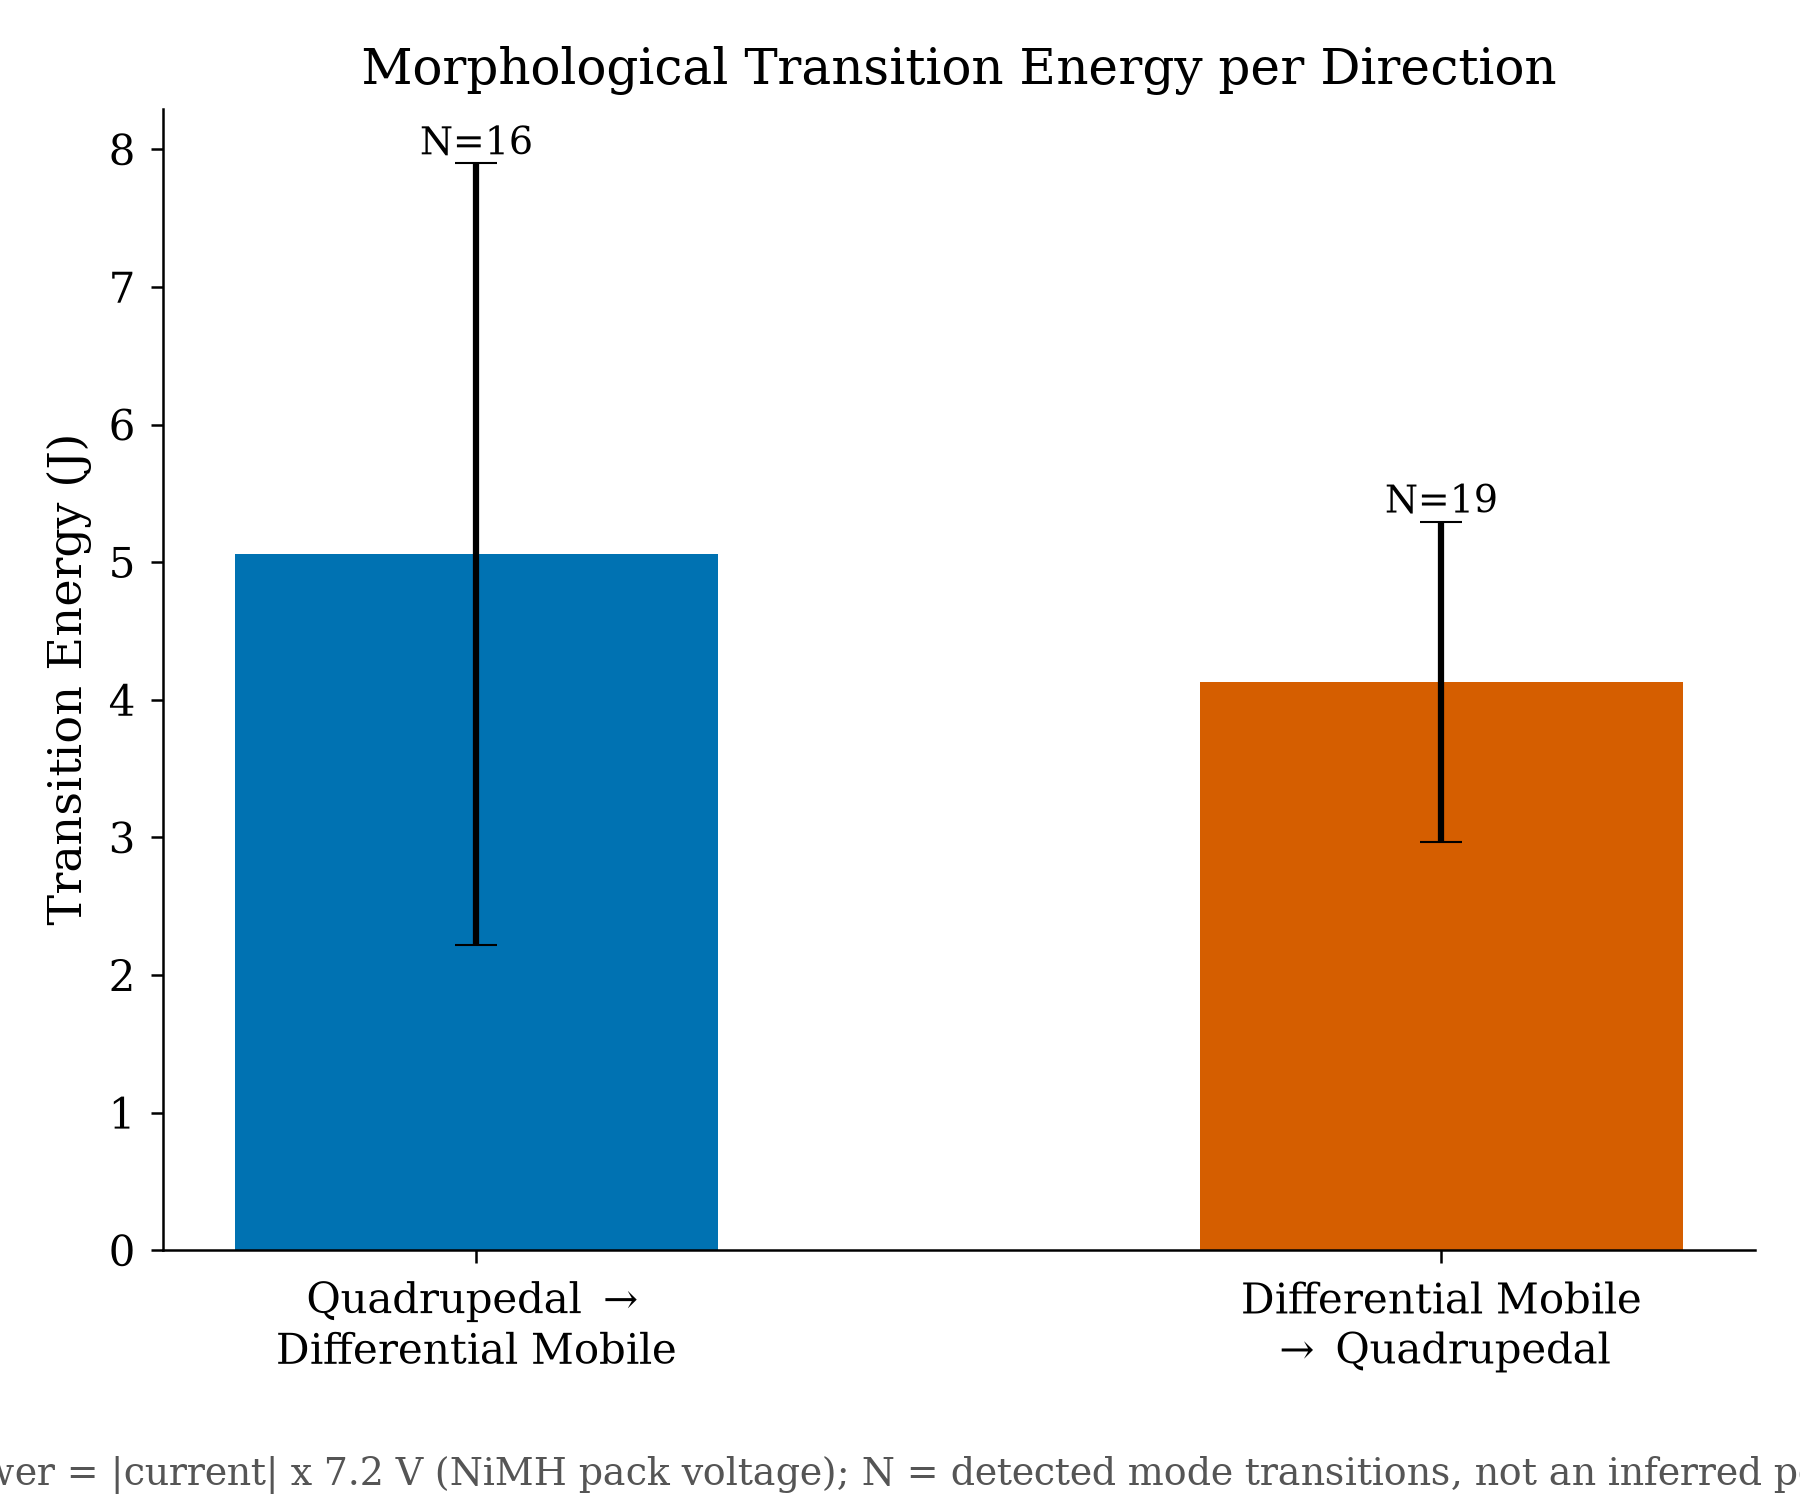
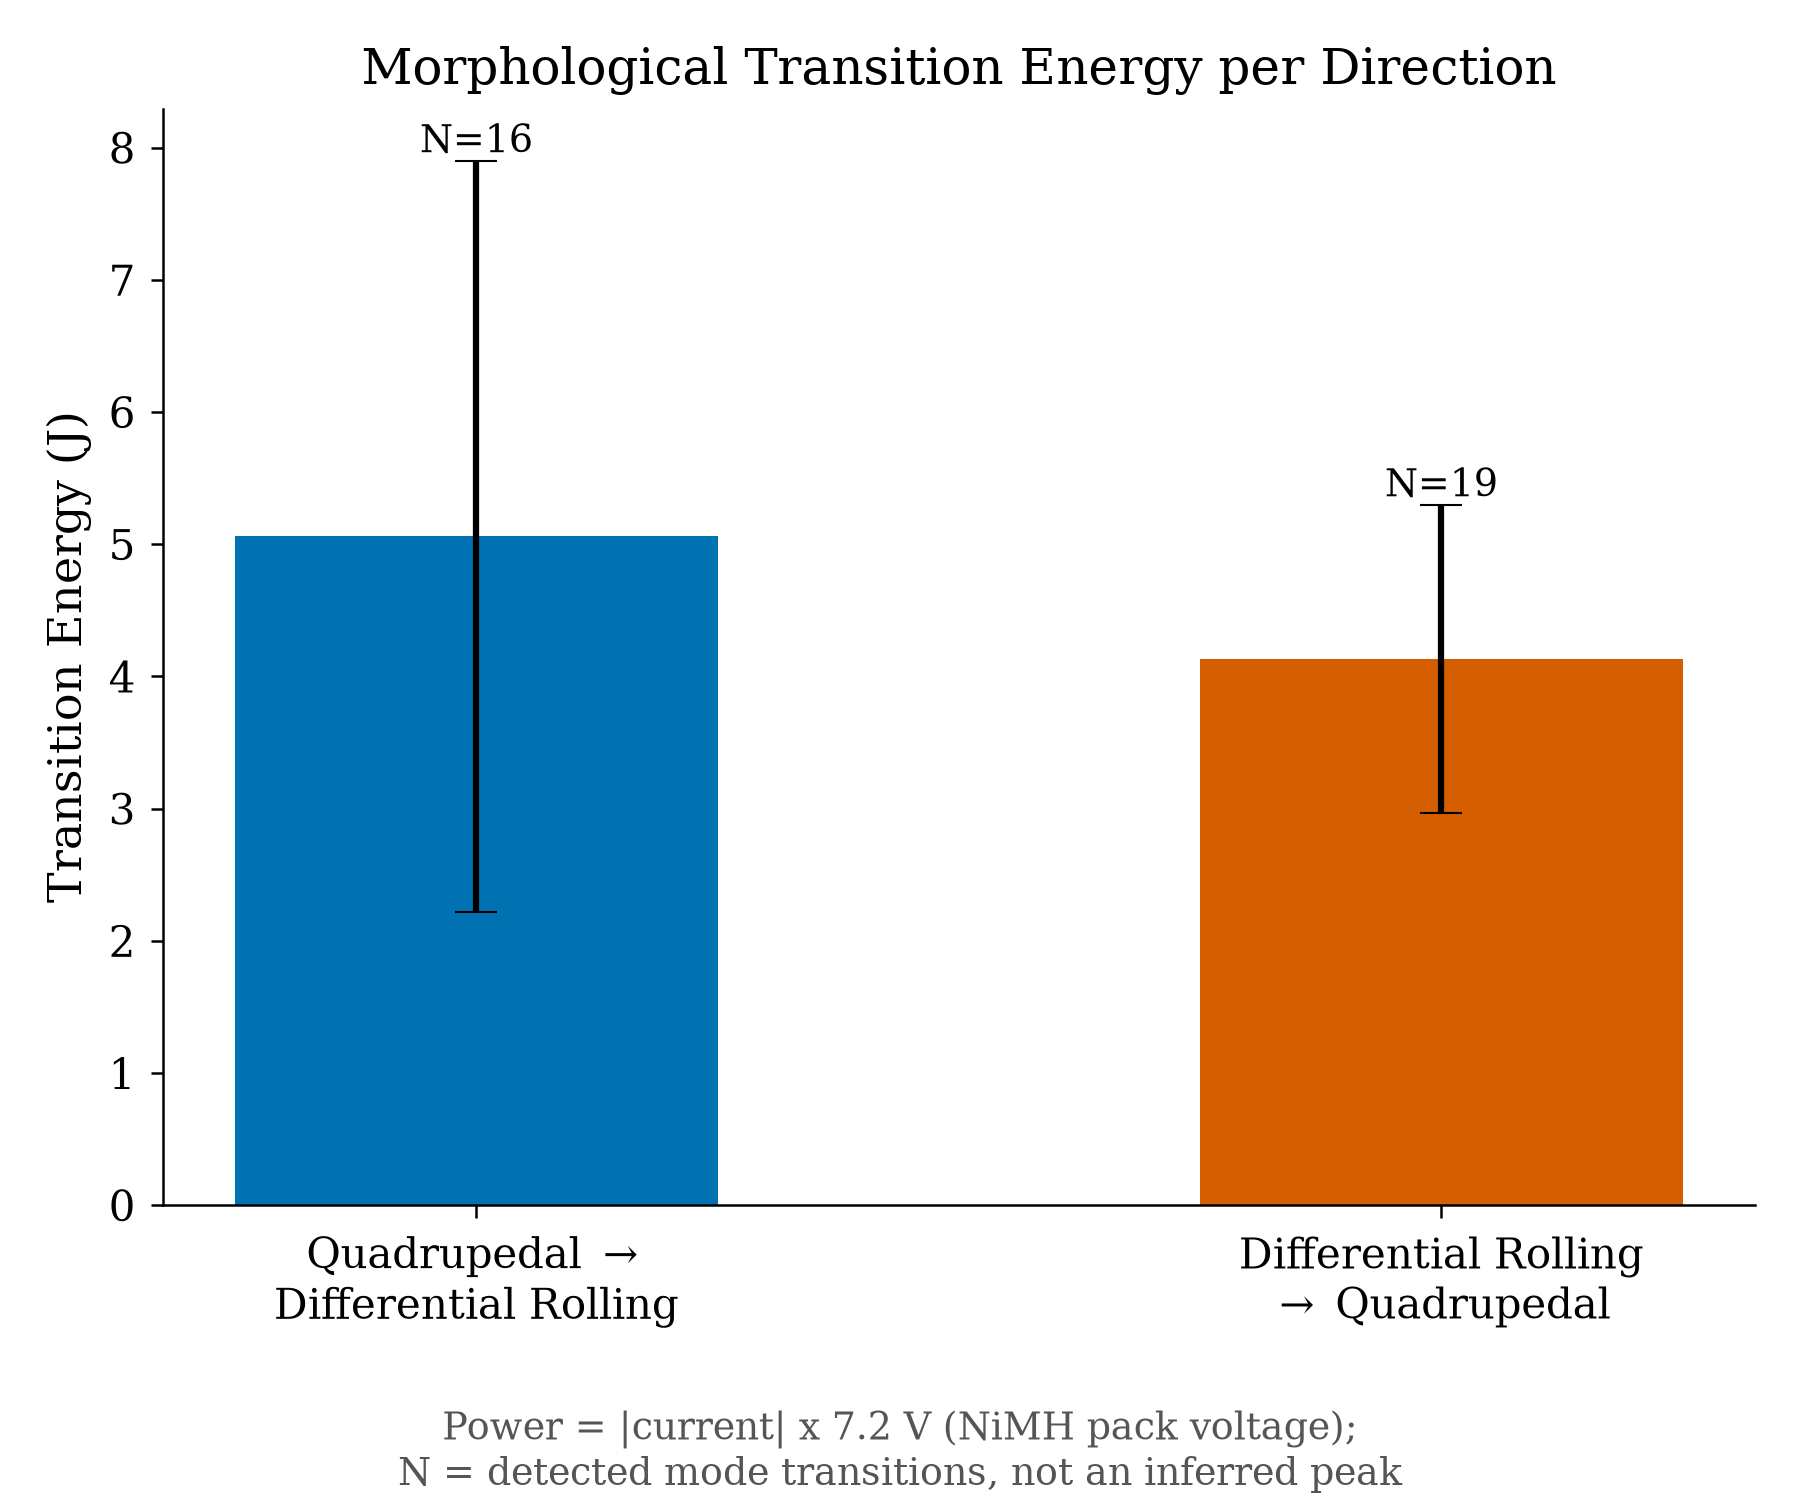
patch: C-89 regenerate the two physical figures with 'Differential Rolling' and a complete footnote
FigReal_Morphological_Transition_Energy: labels + two-line footnote (was cut at both edges).
FigReal_Terrain_Latencies_4Panels: panel titles. Values unchanged. No sections/ text change.

diff --git a/experiments/_plotting/builders/energy_transition.py b/experiments/_plotting/builders/energy_transition.py
@@ -47,8 +47,8 @@ TEST_DIRS = [
 # command -> (mode name, window duration in seconds) -- durations match
 # FigReal_Terrain_Latencies_4Panels's published panels C/D exactly (author-supplied).
 WINDOW_S = {"z": 2.92, "c": 1.56}  # 'x' excluded: N=1, no calibrated window supplied
-DIRECTION_LABEL = {("c", "z"): "Quadrupedal -> Differential Mobile",
-                    ("z", "c"): "Differential Mobile -> Quadrupedal"}
+DIRECTION_LABEL = {("c", "z"): "Quadrupedal -> Differential Rolling",
+                    ("z", "c"): "Differential Rolling -> Quadrupedal"}
 
 
 def find_transitions(real_root: str) -> list[dict]:
@@ -97,12 +97,12 @@ def build(real_root: str, output_path: str) -> dict:
     for e in events:
         e["energy_J_uncalibrated"] = integrate_energy(real_root, e)
 
-    by_direction = {"Quadrupedal -> Differential Mobile": [], "Differential Mobile -> Quadrupedal": []}
+    by_direction = {"Quadrupedal -> Differential Rolling": [], "Differential Rolling -> Quadrupedal": []}
     for e in events:
         if e["direction"] in by_direction and not np.isnan(e["energy_J_uncalibrated"]):
             by_direction[e["direction"]].append(e["energy_J_uncalibrated"])
 
-    labels = ["Quadrupedal $\\to$\nDifferential Mobile", "Differential Mobile\n$\\to$ Quadrupedal"]
+    labels = ["Quadrupedal $\\to$\nDifferential Rolling", "Differential Rolling\n$\\to$ Quadrupedal"]
     means = [np.mean(v) for v in by_direction.values()]
     sds = [np.std(v) for v in by_direction.values()]
     ns = [len(v) for v in by_direction.values()]
@@ -117,9 +117,12 @@ def build(real_root: str, output_path: str) -> dict:
     ax.set_title("Morphological Transition Energy per Direction")
     # R3b-04 batch 3: this footnote named our own log columns ("current_A", "robot_cmd"), which
     # mean nothing to a reader. Same wording in reader-facing terms; 7 pt raised to 9.
-    fig.text(0.5, 0.01, "Power = |current| x 7.2 V (NiMH pack voltage); N = detected mode"
-              " transitions, not an inferred peak", ha="center", fontsize=9, color="#555555")
-    fig.tight_layout(rect=(0, 0.05, 1, 1))
+    # C-89: the one-line footnote was wider than the 6 in figure and got cut at both edges; two
+    # lines, same wording, room reserved at the bottom.
+    fig.text(0.5, 0.01, "Power = |current| x 7.2 V (NiMH pack voltage);\n"
+              "N = detected mode transitions, not an inferred peak",
+              ha="center", fontsize=9, color="#555555")
+    fig.tight_layout(rect=(0, 0.08, 1, 1))
     os.makedirs(os.path.dirname(output_path), exist_ok=True)
     fig.savefig(output_path, dpi=DPI)
     plt.close(fig)

diff --git a/patches/c-89-figure-label-rolling.tex b/patches/c-89-figure-label-rolling.tex
@@ -1,0 +1,19 @@
+% Patch record for C-89 -- final round-2 corrections, figures. Applied 2026-11-04. 2 assets replaced
+% under their existing names; no sections/*.tex text changed.
+%
+% energy_transition.py -> FigReal_Morphological_Transition_Energy.png
+% - x labels "Differential Mobile" -> "Differential Rolling": the manuscript text and tables always say
+%   "Differential Rolling" (audit S-34 = M-20).
+% - The one-line footnote was wider than the 6 in figure and was cut at both edges ("wer = |current| ...
+%   not an inferred pe"). Same wording, now two lines; bottom margin rect 0.05 -> 0.08.
+% - Values unchanged: 35 transitions, Q->DR N=16 mean 5.059 J, DR->Q N=19 mean 4.132 J; error bars are
+%   still the population SD already declared by C-74 (not reopened).
+%
+% imu_terrain_real.py (build_terrain_latencies) -> FigReal_Terrain_Latencies_4Panels.png
+% - The four panel titles "[... Differential Mobile ...]" -> "Differential Rolling". Data unchanged
+%   (experiments/_plotting/vectorized/terrain_latencies.csv).
+% - NOT touched on purpose (author decision 2026-11-03): the "Hardware Replicates (reconstructed)" legend
+%   and the number of steps per panel; the origin of the 184/534 ms latencies is parked as a known risk.
+%
+% Not regenerated: classifier panel (a) (text aligned to the figure instead), optional low-priority
+% items (ECDF title em dash, inspection timeline axis, decision-delay axis).

diff --git a/experiments/_plotting/builders/imu_terrain_real.py b/experiments/_plotting/builders/imu_terrain_real.py
@@ -144,13 +144,13 @@ def build_terrain_latencies(csv_path: str, output_path: str) -> None:
     df = pd.read_csv(csv_path)
     panel_specs = [
         ("A_Tresponse_Quad2Diff", "#1f77b4", "A. Neural Processing Latency ($T_{response}$)\n"
-         "[Quadrupedal $\\to$ Differential Mobile]", "Time Delay (s)"),
+         "[Quadrupedal $\\to$ Differential Rolling]", "Time Delay (s)"),
         ("B_Tresponse_Diff2Quad", "#ff7f0e", "B. Neural Processing Latency ($T_{response}$)\n"
-         "[Differential Mobile $\\to$ Quadrupedal]", "Time Delay (s)"),
+         "[Differential Rolling $\\to$ Quadrupedal]", "Time Delay (s)"),
         ("C_Tswitch_Quad2Diff", "#2ca089", "C. Electromechanical Coupling Latency ($T_{switch}$)\n"
-         "[Quadrupedal $\\to$ Differential Mobile]", "Settling Time (s)"),
+         "[Quadrupedal $\\to$ Differential Rolling]", "Settling Time (s)"),
         ("D_Tswitch_Diff2Quad", "#d2691e", "D. Electromechanical Coupling Latency ($T_{switch}$)\n"
-         "[Differential Mobile $\\to$ Quadrupedal]", "Settling Time (s)"),
+         "[Differential Rolling $\\to$ Quadrupedal]", "Settling Time (s)"),
     ]
     fig, axes = plt.subplots(2, 2, figsize=(11, 8.5))
     for ax, (panel, color, title, xlabel) in zip(axes.flat, panel_specs):

diff --git a/PROGRESS.md b/PROGRESS.md
@@ -143,4 +143,4 @@ Resolved by renumbering the second-arriving set (Sebas's) to the next free IDs a
 | C-86 | — | **Correcciones finales de la ronda 2 — `sections/results.tex` líneas 324–581 (estabilidad de transiciones, FSM baseline, inspección).** Brief autocontenido: `intake/pending/final_corrections_round2_2026-11-04.md` (reglas, decisiones del autor, qué aplicar y qué no). Cualquiera de Sam, Sebas o Diego puede tomarla: antes de empezar mira `gh pr list --state open` para que no la tome dos veces. Solo este archivo/rango. Due 2026-11-04. | results.tex (324–581) | — | Escritura | Sam, Sebas, Diego | pending | — |
 | C-87 | — | **Correcciones finales de la ronda 2 — `sections/results.tex` líneas 582–867 (resultados físicos, MLP, topografías físicas).** Brief autocontenido: `intake/pending/final_corrections_round2_2026-11-04.md` (reglas, decisiones del autor, qué aplicar y qué no). Cualquiera de Sam, Sebas o Diego puede tomarla: antes de empezar mira `gh pr list --state open` para que no la tome dos veces. Solo este archivo/rango. Due 2026-11-04. | results.tex (582–867) | — | Escritura | Sam, Sebas, Diego | pending | — |
 | C-88 | — | **Correcciones finales de la ronda 2 — `sections/results.tex` líneas 868–1055 (desempeño físico cuantitativo, energía, Limitations).** Brief autocontenido: `intake/pending/final_corrections_round2_2026-11-04.md` (reglas, decisiones del autor, qué aplicar y qué no). Cualquiera de Sam, Sebas o Diego puede tomarla: antes de empezar mira `gh pr list --state open` para que no la tome dos veces. Solo este archivo/rango. Due 2026-11-04. | results.tex (868–1055) | — | Escritura | Sam, Sebas, Diego | pending | — |
-| C-89 | — | **Correcciones finales de la ronda 2 — figuras.** Regenerar `FigReal_Terrain_Latencies_4Panels.png` y `FigReal_Morphological_Transition_Energy.png` (etiquetas "Differential Mobile" → "Differential Rolling"; pie cortado en la de energía) por `experiments/` + `scripts/promote_figure.sh`. Brief autocontenido: `intake/pending/final_corrections_round2_2026-11-04.md`. Cualquiera de Sam, Sebas o Diego puede tomarla (mira `gh pr list --state open` antes). Due 2026-11-04. | assets/ (2 figuras) | experiments/_plotting/ | Métricas | Sam, Sebas, Diego | pending | — |
+| C-89 | — | **Correcciones finales de la ronda 2 — figuras.** Regenerar `FigReal_Terrain_Latencies_4Panels.png` y `FigReal_Morphological_Transition_Energy.png` (etiquetas "Differential Mobile" → "Differential Rolling"; pie cortado en la de energía) por `experiments/` + `scripts/promote_figure.sh`. Brief autocontenido: `intake/pending/final_corrections_round2_2026-11-04.md`. Cualquiera de Sam, Sebas o Diego puede tomarla (mira `gh pr list --state open` antes). Due 2026-11-04. **Hecho 2026-11-04 (Deivi):** las dos figuras regeneradas con "Differential Rolling" y el pie de la de energía en dos líneas (valores sin cambios); promovidas a `assets/` con `promote_figure.sh --force`. No se regeneraron la leyenda "(reconstructed)" ni el panel (a) del clasificador (decisión del autor). | assets/ (2 figuras) | experiments/_plotting/ | Métricas | Deivi | applied | `patches/c-89-figure-label-rolling.tex` |
